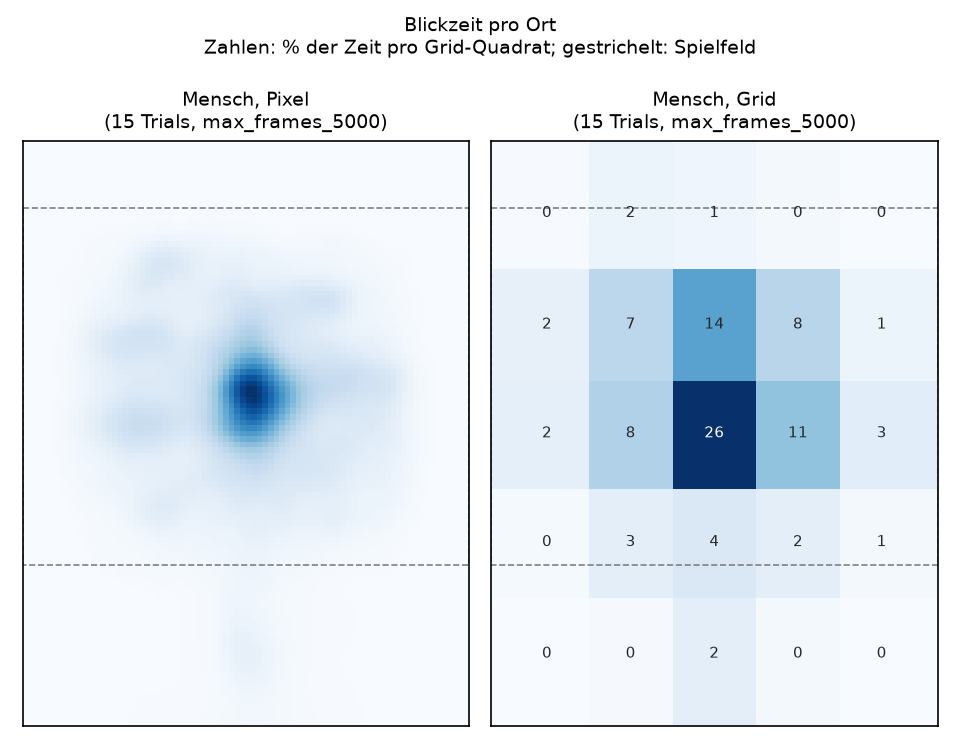
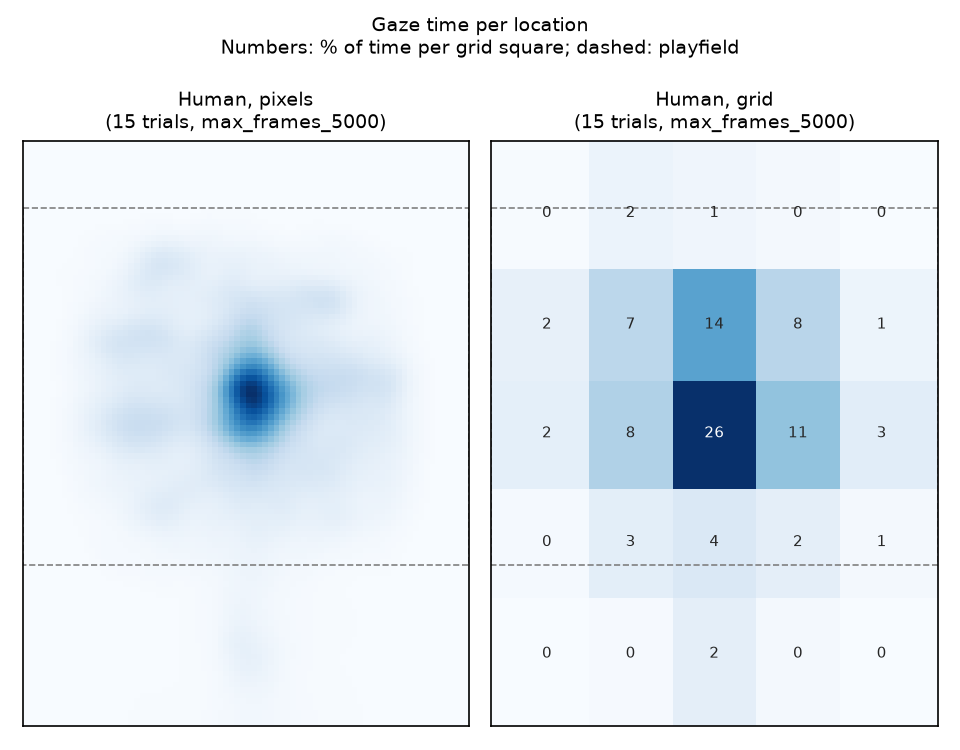
docs: write object gaze heatmaps and report in English

Changed region(s): [[0.2188, 0.0, 0.7812, 0.092], [0.5938, 0.1227, 0.9062, 0.184], [0.0938, 0.1227, 0.4062, 0.184]]

diff --git a/scripts/object_gaze_report.py b/scripts/object_gaze_report.py
@@ -128,16 +128,16 @@ def main():
   import matplotlib.pyplot as plt
   maps = []  # (title, image, grid shares or None)
   pixel = human_pixel_heatmap(args.game_dir, args.max_frames, args.max_score)
-  maps.append((f'Mensch, Pixel\n(15 Trials, {args.human_cut})', pixel, None))
+  maps.append((f'Human, pixels\n(15 trials, {args.human_cut})', pixel, None))
   human_grid, n = grid_mean([res / 'human' / f'play_stats_{args.human_cut}.csv'])
-  maps.append((f'Mensch, Grid\n({n} Trials, {args.human_cut})', grid_image(human_grid, grid), human_grid))
+  maps.append((f'Human, grid\n({n} trials, {args.human_cut})', grid_image(human_grid, grid), human_grid))
   seeds = sorted(glob.glob(str(res / 'agent' / '*play_stats*.csv')))
   for path in seeds:
     shares, n = grid_mean([path])
-    maps.append((f'Agent {pathlib.Path(path).stem}\n({n} Episoden)', grid_image(shares, grid), shares))
+    maps.append((f'Agent {pathlib.Path(path).stem}\n({n} episodes)', grid_image(shares, grid), shares))
   if len(seeds) > 1:
     shares, n = grid_mean(seeds)
-    maps.append((f'Agent alle Seeds\n({n} Episoden)', grid_image(shares, grid), shares))
+    maps.append((f'Agent, all seeds\n({n} episodes)', grid_image(shares, grid), shares))
 
   with open(res / 'gaze_grid.csv', 'w', newline='') as f:
     writer = csv.writer(f)
@@ -163,7 +163,7 @@ def main():
     ax.set_title(title, fontsize=9)
     ax.set_xticks([])
     ax.set_yticks([])
-  fig.suptitle('Blickzeit pro Ort\nZahlen: % der Zeit pro Grid-Quadrat; gestrichelt: Spielfeld',
+  fig.suptitle('Gaze time per location\nNumbers: % of time per grid square; dashed: playfield',
                fontsize=9)
   fig.tight_layout(rect=(0, 0, 1, 0.94))
   fig.savefig(res / 'gaze_heatmaps.png', dpi=150)

diff --git a/results/object_gaze/README.md b/results/object_gaze/README.md
@@ -1,82 +1,82 @@
 # Object gaze: agent vs. Atari-HEAD humans (Asterix)
 
-Stand 2026-11-12, Branch `feat/object-gaze-metrics`.
+As of 2026-11-12, branch `feat/object-gaze-metrics`.
 
-## Daten
+## Data
 
-| Ordner/Datei | Inhalt | Erzeugt mit |
+| Folder/file | Content | Created with |
 |---|---|---|
-| `agent/seed{0,1,2}_step*.csv` | 10 Episoden pro Seed, Modell `grid5x5_square24x24_EMMA_foveated_effort`, Cluster-Job 3310213 | `scripts/vision_grid/eval_objects.sh` |
-| `human/full_trials.csv` | 15 Trials (je 15 min, 1 Episode) | `scripts/human_object_gaze.py` |
-| `human/max_frames_5000.csv` | erste 5000 Frames pro Trial | `... --max-frames 5000` |
-| `human/max_score_7000.csv`, `max_score_12000.csv` | bis Score 7000 bzw. 12000 | `... --max-score N` |
-| `human/play_stats_*.csv` | Avatar-Positionen und Blickverhalten (gleiche Schnitte) | `scripts/human_play_stats.py` |
-| `comparison.csv` | Objekt-Anteile pro Gruppe (Mensch-Schnitt, Agent-Seed, alle Seeds) und Kategorie: Mittel, SD, Min, Max, Zufall, Verhältnis, im Bild | `scripts/object_gaze_report.py` |
-| `gaze_heatmaps.png`, `gaze_grid.csv` | Blickzeit pro Ort: Menschen pixelgenau und auf dem Grid (Mittel über Trials), Agent auf dem Grid, sobald `agent/*play_stats*.csv` vorliegen | `scripts/object_gaze_report.py` |
+| `agent/seed{0,1,2}_step*.csv` | 10 episodes per seed, model `grid5x5_square24x24_EMMA_foveated_effort`, cluster job 3310213 | `scripts/vision_grid/eval_objects.sh` |
+| `human/full_trials.csv` | 15 trials (15 min each, one episode) | `scripts/human_object_gaze.py` |
+| `human/max_frames_5000.csv` | first 5000 frames of each trial | `... --max-frames 5000` |
+| `human/max_score_7000.csv`, `max_score_12000.csv` | up to score 7000 / 12000 | `... --max-score N` |
+| `human/play_stats_*.csv` | avatar positions and gaze behaviour (same cuts) | `scripts/human_play_stats.py` |
+| `comparison.csv` | object shares per group (human cut, agent seed, all seeds) and category: mean, sd, min, max, chance, ratio, on screen | `scripts/object_gaze_report.py` |
+| `gaze_heatmaps.png`, `gaze_grid.csv` | gaze time per location: humans per pixel and on the grid (mean over trials), agent on the grid once `agent/*play_stats*.csv` exist | `scripts/object_gaze_report.py` |
 
-Methode: `embodied/core/object_gaze.py` (Objekt-Anteile) und `embodied/core/play_stats.py`
-(Avatar/Blick). Alles ist zeitgewichtet (Agent: Emulator-Frames à 50 ms, Mensch: duration(ms)
-pro Frame) und auf dem Vision-Grid des Agenten gemessen (5x5 Quadrate à 40x52 px).
-Zufallsniveau = Anteil der Grid-Quadrate, die eine Kategorie überlappen.
+Method: `embodied/core/object_gaze.py` (object shares) and `embodied/core/play_stats.py`
+(avatar/gaze). Everything is time-weighted (agent: emulator frames of 50 ms, humans: duration(ms)
+per frame) and measured on the agent's vision grid (5x5 squares of 40x52 px).
+Chance = share of grid squares that overlap a category.
 
-## 1. Anteil der Zeit auf Objektkategorien (Grid)
+## 1. Share of time on object categories (grid)
 
-In % der Episodenzeit, in Klammern das Zufallsniveau, × = Verhältnis zum Zufall
-(Mittel der Verhältnisse pro Episode/Trial).
+In % of episode time, chance level in parentheses, × = ratio to chance
+(mean of the per-episode/per-trial ratios).
 
-| Kategorie | Mensch erste 5000 Frames | Mensch ganzer Trial | Agent Ø 3 Seeds | Agent Seed 1 (bester) |
+| Category | Human first 5000 frames | Human full trial | Agent mean 3 seeds | Agent seed 1 (best) |
 |---|---|---|---|---|
-| player | 57,5 (9,4) · 6,1× | 60,1 (10,4) · 5,8× | 15,9 (9,3) · 1,7× | 20,1 (9,9) · 2,1× |
-| enemy | 28,8 (13,6) · 2,1× | 32,3 (17,5) · 1,8× | 14,4 (11,2) · 1,3× | 15,9 (11,4) · 1,4× |
-| item | 30,0 (7,8) · 3,9× | 37,5 (9,6) · 3,9× | 17,6 (12,3) · 1,4× | 19,3 (12,1) · 1,6× |
-| reward | 45,8 (21,8) · 2,1× | 44,1 (19,5) · 2,3× | 24,7 (16,7) · 1,5× | 27,0 (15,8) · 1,7× |
+| player | 57.5 (9.4) · 6.1× | 60.1 (10.4) · 5.8× | 15.9 (9.3) · 1.7× | 20.1 (9.9) · 2.1× |
+| enemy | 28.8 (13.6) · 2.1× | 32.3 (17.5) · 1.8× | 14.4 (11.2) · 1.3× | 15.9 (11.4) · 1.4× |
+| item | 30.0 (7.8) · 3.9× | 37.5 (9.6) · 3.9× | 17.6 (12.3) · 1.4× | 19.3 (12.1) · 1.6× |
+| reward | 45.8 (21.8) · 2.1× | 44.1 (19.5) · 2.3× | 24.7 (16.7) · 1.5× | 27.0 (15.8) · 1.7× |
 
-- Spielfortschritt ist vergleichbar: Menschen haben nach 5000 Frames 6520 ± 880 Punkte, der Agent
-  ~6800 Punkte in ~5000 Frames (Seed 1: 11440 in 6460 Frames). Der Agent stirbt nur früher
-  (alle Agent-Episoden enden durch Game Over nach 1,2–7,5 min).
-- Schnitte bei Score 7000/12000 ändern die Menschenwerte kaum (player 57,5/57,4 %).
-  Das Blickverhalten der Menschen ist über die Levels stabil, der Unterschied ist kein Level-Effekt.
+- Game progress is comparable: humans have 6520 ± 880 points after 5000 frames, the agent
+  ~6800 points in ~5000 frames (seed 1: 11440 in 6460 frames). The agent just dies earlier
+  (all agent episodes end by game over after 1.2–7.5 min).
+- Cutting at score 7000/12000 barely changes the human values (player 57.5/57.4 %).
+  Human gaze behaviour is stable across levels; the gap is not a level effect.
 
-### Nur das beste Modell (Seed 1, Step 37,7 M)
+### Best model only (seed 1, step 37.7 M)
 
-Mensch geschnitten bei Score 12000 (≈ gleicher Spielabschnitt wie Seed 1), Spannweite über Trials
-bzw. Episoden, 95 %-Bootstrap-KI für Seed 1:
+Humans cut at score 12000 (≈ same part of the game as seed 1), range over trials
+or episodes, 95 % bootstrap CI for seed 1:
 
-| Kategorie | Mensch (Score ≤ 12000) | Seed 1 Mittel [95 %-KI] | Seed 1 Spannweite |
+| Category | Human (score ≤ 12000) | Seed 1 mean [95 % CI] | Seed 1 range |
 |---|---|---|---|
-| player | 57,4 [51,7–64,2] | 20,1 [18,4–21,9] | 14,7–25,9 |
-| enemy | 31,7 [19,3–38,0] | 15,9 [14,6–17,1] | 11,4–18,6 |
-| item | 31,4 [28,3–34,4] | 19,3 [17,3–21,0] | 12,2–24,1 |
-| reward | 41,9 [36,0–46,7] | 27,0 [24,6–29,7] | 20,8–36,7 |
+| player | 57.4 [51.7–64.2] | 20.1 [18.4–21.9] | 14.7–25.9 |
+| enemy | 31.7 [19.3–38.0] | 15.9 [14.6–17.1] | 11.4–18.6 |
+| item | 31.4 [28.3–34.4] | 19.3 [17.3–21.0] | 12.2–24.1 |
+| reward | 41.9 [36.0–46.7] | 27.0 [24.6–29.7] | 20.8–36.7 |
 
-- Bei player und item überschneiden sich die Spannweiten nicht: die beste Agent-Episode liegt unter dem
-  schlechtesten Menschen-Trial. Dafür reichen 10 Episoden.
-- Innerhalb des Agenten hängt der Blick auf den Avatar stark mit dem Score zusammen
-  (r = 0,80 über alle 30 Episoden, r = 0,90 innerhalb Seed 1). Enemy/item/reward: r = 0,2–0,3.
-  Aber: In den besten Episoden steigt auch das Zufallsniveau für player (bis 13,5 %).
+- For player and item the ranges do not overlap: the best agent episode is below the
+  weakest human trial. 10 episodes are enough for this.
+- Within the agent, looking at the avatar is strongly related to the score
+  (r = 0.80 over all 30 episodes, r = 0.90 within seed 1). Enemy/item/reward: r = 0.2–0.3.
+  However, the chance level for player also rises in the best episodes (up to 13.5 %).
 
-## 2. Avatar-Positionen und Blickverhalten (Menschen)
+## 2. Avatar positions and gaze behaviour (humans)
 
-Agent-Werte folgen aus dem neuen Eval-Lauf (`agent_play_stats.csv`). Lokaler Test des Skripts mit
-einem fast untrainierten Checkpoint: Blick-Entropie 4,5 bit (gleichverteilt), 4 Wechsel/s.
+Agent values follow from the new eval run (`agent_play_stats.csv`). Local test of the script with
+an almost untrained checkpoint: gaze entropy 4.5 bit (uniform), 4 switches/s.
 
-| Größe | Mensch erste 5000 Frames | Mensch ganzer Trial |
+| Measure | Human first 5000 frames | Human full trial |
 |---|---|---|
-| Avatar gefunden | 99,6 % | 98,3 % |
-| Avatar x Mittel ± SD (px, Bild 160) | 76,3 ± 15,8 | 76,1 ± 18,0 |
-| Spurwechsel pro min | 66 | 80 |
-| horizontale Geschwindigkeit (px/s) | 13,0 | 18,5 |
-| Zeit pro Spur 0–7 (oben→unten, %) | 5 · 6 · 11 · 28 · 27 · 10 · 8 · 5 | 6 · 8 · 12 · 23 · 24 · 12 · 9 · 6 |
-| Blick-Entropie (bit, max 4,64) | 3,44 | 3,45 |
-| Quadratwechsel pro s | 2,9 | 2,8 |
-| mittlere Verweildauer (ms) | 353 | 365 |
-| Blick im Avatar-Quadrat | 34,5 % | 34,7 % |
-| Blick ≤ 1 Quadrat vom Avatar | 84,6 % | 87,5 % |
-| Abstand Quadratmitte–Avatar (px) | 31,9 | 31,1 |
-| Zeile Blick − Avatar (−2…+2, %) | 0,8 · 14,8 · 56,0 · 23,2 · 3,4 | 1,1 · 16,0 · 56,7 · 21,7 · 3,0 |
-| Spalte Blick − Avatar (−2…+2, %) | 4,6 · 14,3 · 60,1 · 15,7 · 4,9 | 3,3 · 16,3 · 59,1 · 17,2 · 3,7 |
+| avatar found | 99.6 % | 98.3 % |
+| avatar x mean ± sd (px, screen 160) | 76.3 ± 15.8 | 76.1 ± 18.0 |
+| lane changes per min | 66 | 80 |
+| horizontal speed (px/s) | 13.0 | 18.5 |
+| time per lane 0–7 (top→bottom, %) | 5 · 6 · 11 · 28 · 27 · 10 · 8 · 5 | 6 · 8 · 12 · 23 · 24 · 12 · 9 · 6 |
+| gaze entropy (bit, max 4.64) | 3.44 | 3.45 |
+| square switches per s | 2.9 | 2.8 |
+| mean dwell time (ms) | 353 | 365 |
+| gaze in the avatar's square | 34.5 % | 34.7 % |
+| gaze ≤ 1 square from the avatar | 84.6 % | 87.5 % |
+| distance square centre – avatar (px) | 31.9 | 31.1 |
+| row gaze − avatar (−2…+2, %) | 0.8 · 14.8 · 56.0 · 23.2 · 3.4 | 1.1 · 16.0 · 56.7 · 21.7 · 3.0 |
+| column gaze − avatar (−2…+2, %) | 4.6 · 14.3 · 60.1 · 15.7 · 4.9 | 3.3 · 16.3 · 59.1 · 17.2 · 3.7 |
 
-Blickzeit pro Grid-Quadrat, Menschen, erste 5000 Frames (%):
+Gaze time per grid square, humans, first 5000 frames (%):
 
 ```
  0.1   1.6   1.1   0.5   0.1
@@ -86,13 +86,13 @@ Blickzeit pro Grid-Quadrat, Menschen, erste 5000 Frames (%):
  0.0   0.2   2.5   0.4   0.1
 ```
 
-Menschen halten den Avatar in der Bildmitte (Spuren 3–4, x ≈ 76) und schauen fast immer auf ihn oder
-ein Nachbarquadrat, eher darunter als darüber.
+Humans keep the avatar in the middle of the screen (lanes 3–4, x ≈ 76) and almost always look at it
+or a neighbouring square, more often below than above it.
 
-Hinweise zum Vergleich:
-- Der Agent kann nur einmal pro Env-Schritt wechseln (≈ 5 Frames, ≥ ~250 ms). Menschen werden pro Frame
-  (50 ms) gezählt, mit dem häufigsten Quadrat des Frames.
-- Agent-Avatar aus RAM, Menschen-Avatar aus dem Farbdetektor. Beide stimmen bei Zufallsspiel überein
-  (x ±1 px, y in 99,5 % exakt).
-- Beim Agenten wird pro Schritt das gewählte Quadrat gezählt, die alten Quadrate während EMMA-Sakkaden
-  bleiben hier unberücksichtigt (anders als in Teil 1).
+Notes on the comparison:
+- The agent can switch only once per env step (≈ 5 frames, ≥ ~250 ms). Humans are counted per frame
+  (50 ms), with the most frequent square of the frame.
+- Agent avatar from RAM, human avatar from the colour detector. Both agree on random play
+  (x ±1 px, y exact in 99.5 %).
+- For the agent the chosen square is counted per step; the old squares during EMMA saccades
+  are ignored here (unlike part 1).
